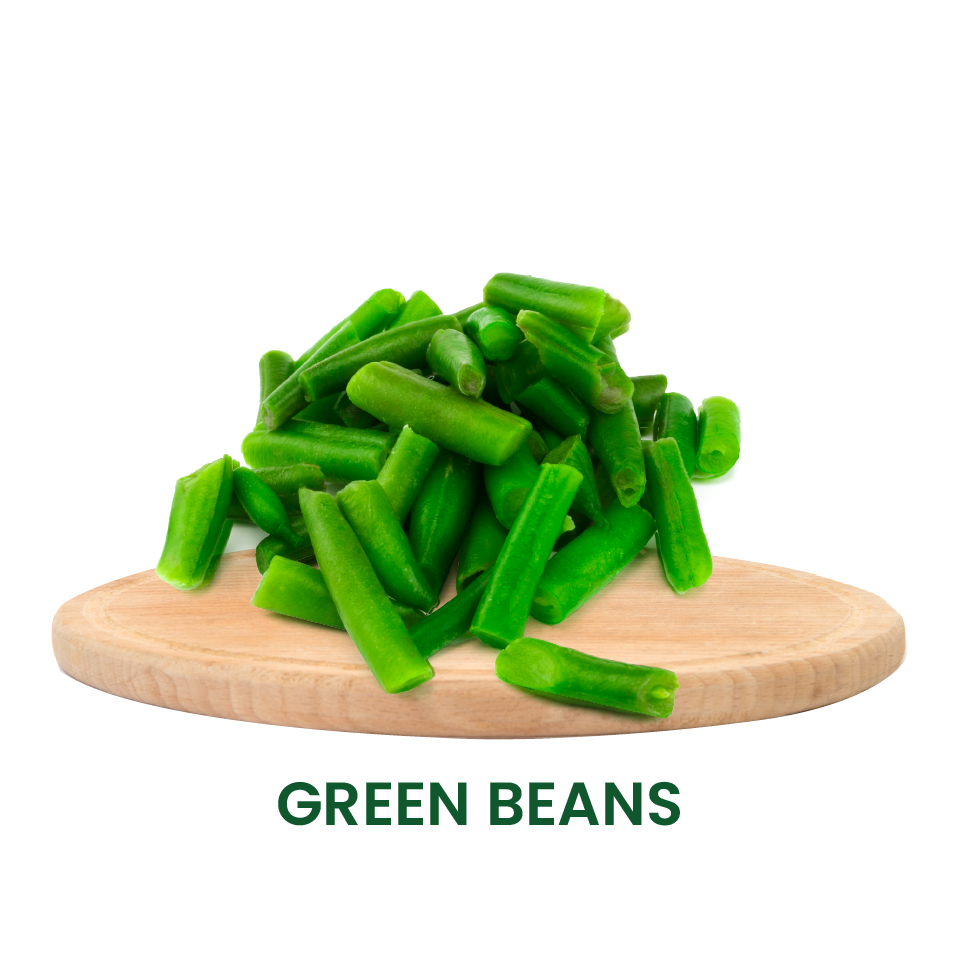
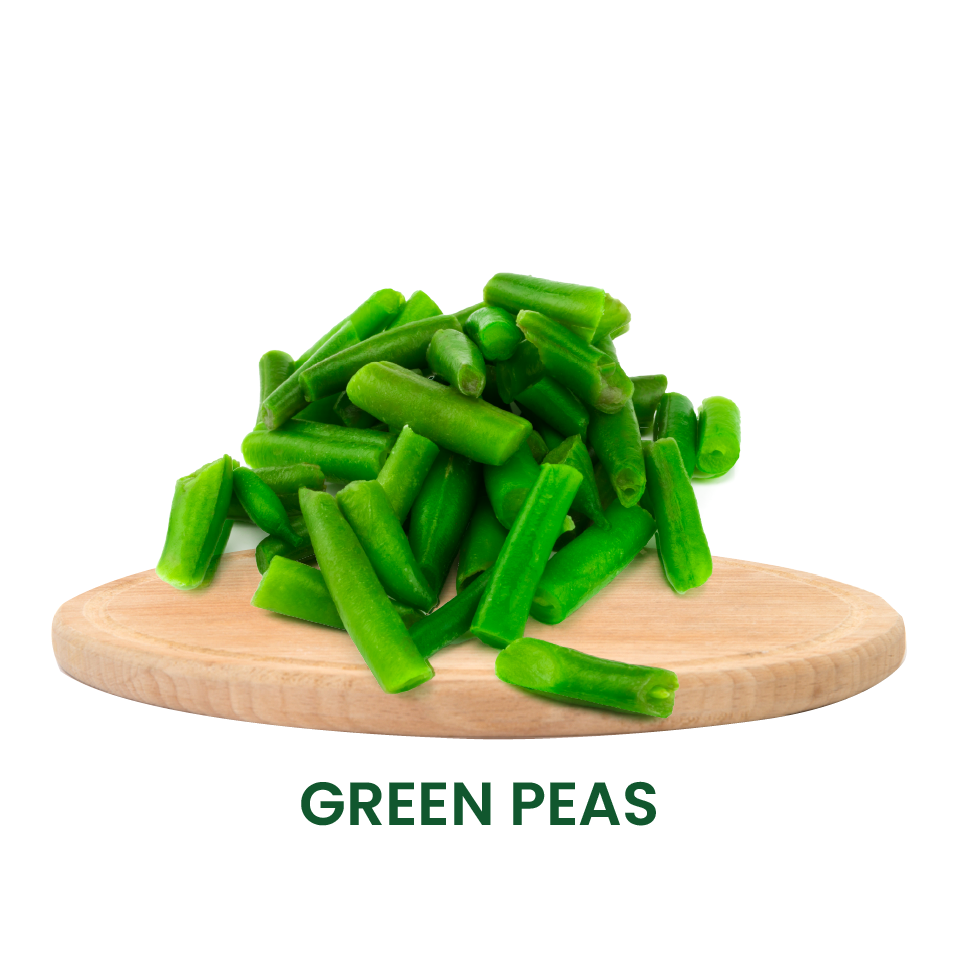
m

Changed region(s): [[0.2722, 0.8165, 0.7258, 0.877]]

diff --git a/iqf-vegetables.html b/iqf-vegetables.html
@@ -259,7 +259,7 @@
                                             <!-- Single Item -->
                                             <div class="col-lg-4 col-6 farmer-stye-one d-flex justify-content-center">
                                                 <div class="farmer-style-one-item">
-                                                    <div class="thumb"><a href="iqf-greenbeans.html">
+                                                    <div class="thumb"><a href="iqf-greenpeas.html">
                                                             <img class="vege"
                                                                 src="assets/images/vegetables/vegetable-04.png"
                                                                 alt="Image Not Found">
@@ -319,7 +319,7 @@
                                             <!-- Single Item -->
                                             <div class="col-lg-4 col-6 farmer-stye-one d-flex justify-content-center">
                                                 <div class="farmer-style-one-item">
-                                                    <div class="thumb"><a href="iqf-greenpeas.html">
+                                                    <div class="thumb"><a href="iqf-greenbeans.html">
                                                             <img class="vege"
                                                                 src="assets/images/vegetables/vegetable-09.png"
                                                                 alt="Image Not Found">

diff --git a/iqf-Cauliflower.html b/iqf-Cauliflower.html
@@ -235,9 +235,8 @@
                             <h2 class="product-title">Types</h2>
                             <h3 class="product-title2">Sizes:</h3>
                             <ul class="list-cuts2">
-                                <li>(20 – 40 mm)</li>
-                                <li>(40 – 60 mm) </li>
-                                <li>(+60 mm)</li>
+                                <li>Florets (30 – 50 mm)</li>
+                                <li>Florets (40 – 60 mm) </li>
                             </ul>
                         </div>
                     </div>

diff --git a/iqf-broccoli.html b/iqf-broccoli.html
@@ -244,8 +244,8 @@
                             <h2 class="product-title">Types</h2>
                             <h3 class="product-title2">Cut: All sizes available</h3>
                             <ul class="list-cuts2">
-                                <li>Stem</li>
-                                <li>Dust</li>
+                                <li>Florets 30-50mm</li>
+                                <li>Florets 40-60mm</li>
                                 <li>Chopped</li>
                             </ul>
                         </div>

diff --git a/iqf-Figs.html b/iqf-Figs.html
@@ -234,7 +234,7 @@
                             <h2 class="product-title">Types</h2>
                             <!-- <h3 class="product-title2">Sizes:</h3> -->
                             <ul class="list-cuts2">
-                                <li>Diced:10*10 mm</li>
+                                <!-- <li>Diced:10*10 mm</li> -->
                                 <li>20*20 mm</li>
                                 <li>Whole</li>
                                 <li>Halves</li>

diff --git a/iqf-watermelon.html b/iqf-watermelon.html
@@ -234,7 +234,7 @@
                             <h2 class="product-title">Types</h2>
                             <!-- <h3 class="product-title2">Sizes:</h3> -->
                             <ul class="list-cuts2">
-                                <li>Diced</li>
+                                <li>Chunk</li>
                             </ul>
                         </div>
                     </div>
